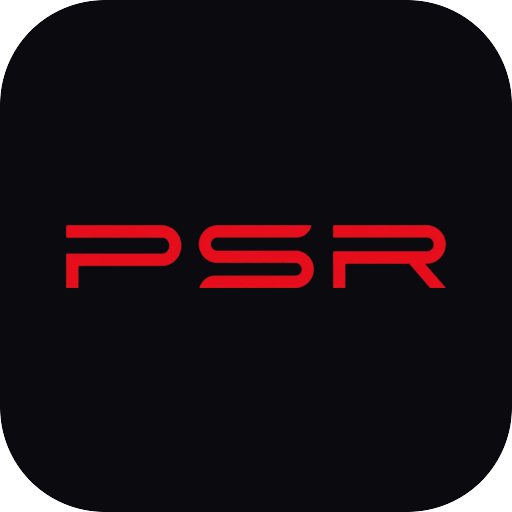
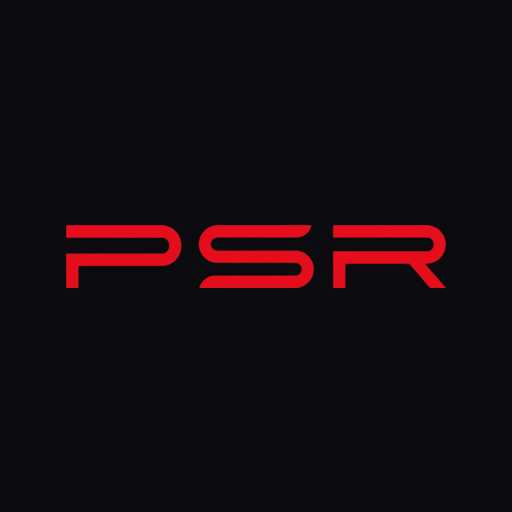
feat: restrict geo warehouse to super-admins (UI+API); mobile-friendly admin header; rich-text (markdown) AI replies; dark share/OG image (no white bg in link previews)

diff --git a/src/app/admin/page.tsx b/src/app/admin/page.tsx
@@ -15,6 +15,7 @@ type Agent = { id: string; name: string; phone?: string; email?: string | null; 
 export default function AdminPage() {
   const [state, setState] = useState<"loading" | "in" | "out" | "denied">("loading");
   const [session, setSession] = useState<Session | null>(null);
+  const [isSuper, setIsSuper] = useState(false);
 
   async function check() {
     const r = await api("/api/auth/me");
@@ -22,6 +23,7 @@ export default function AdminPage() {
     const j = await r.json();
     const role = j.session?.role;
     setSession(j.session);
+    setIsSuper(!!j.isSuper);
     setState(role === "ADMIN" || role === "COORDINATOR" ? "in" : "denied");
   }
   useEffect(() => { check(); }, []);
@@ -41,12 +43,12 @@ export default function AdminPage() {
         </div>
       </main>
     );
-  return <Console session={session!} />;
+  return <Console session={session!} isSuper={isSuper} />;
 }
 
 type AdminTab = "codes" | "geo" | "results" | "ai" | "billing" | "settings";
 
-function Console({ session }: { session: Session }) {
+function Console({ session, isSuper }: { session: Session; isSuper: boolean }) {
   const [units, setUnits] = useState<Unit[]>([]);
   const [lgas, setLgas] = useState<Lga[]>([]);
   const [agents, setAgents] = useState<Agent[]>([]);
@@ -147,7 +149,9 @@ function Console({ session }: { session: Session }) {
   }, []);
   const TABS: { key: AdminTab; label: string }[] = [
     { key: "codes", label: "Agents & Codes" },
-    { key: "geo", label: "Geography" },
+    // Geography = the shared, platform-wide INEC warehouse (uploads/harvest).
+    // Only super-admins manage it; tenant admins never see it.
+    ...(isSuper ? [{ key: "geo" as const, label: "Geography" }] : []),
     { key: "results", label: "Results" },
     { key: "ai", label: "AI & Knowledge" },
     ...(isAdmin ? [{ key: "billing" as const, label: "Billing" }, { key: "settings" as const, label: "Settings" }] : []),
@@ -159,19 +163,25 @@ function Console({ session }: { session: Session }) {
 
   return (
     <div className="min-h-dvh">
-      <header className="sticky top-0 z-10 flex items-center justify-between border-b border-line bg-surface/80 px-5 py-3.5 backdrop-blur-md">
-        <div className="flex items-center gap-3">
-          <img src="/psr-logo.png" alt="PSR" className="h-7 w-auto max-w-[110px] shrink-0 object-contain" />
-          <div className="min-w-0 border-l border-line pl-3">
+      <header className="sticky top-0 z-10 flex items-center justify-between gap-2 border-b border-line bg-surface/80 px-3 py-3 backdrop-blur-md sm:px-5 sm:py-3.5">
+        <div className="flex min-w-0 items-center gap-3">
+          <img src="/psr-logo.png" alt="PSR" className="h-7 w-auto max-w-[100px] shrink-0 object-contain" />
+          {/* Verbose title only on ≥sm; on mobile the top bar stays clean (logo + actions). */}
+          <div className="hidden min-w-0 border-l border-line pl-3 sm:block">
             <div className="truncate text-[11px] font-semibold uppercase tracking-[0.2em] text-muted">Admin · {tabTitle[tab]}</div>
             <div className="truncate text-lg font-bold tracking-tight" title={electionName}>{electionName || "Situation Room"}</div>
           </div>
         </div>
-        <div className="flex items-center gap-2">
+        <div className="flex shrink-0 items-center gap-2">
           <ThemeToggle />
-          <a href="/room" className="btn-ghost">Dashboard</a>
+          <a href="/room" className="btn-ghost px-3 py-1.5 text-sm">Dashboard</a>
         </div>
       </header>
+      {/* Compact election name on mobile, below the top bar. */}
+      <div className="border-b border-line px-4 py-2 sm:hidden">
+        <div className="text-[10px] font-semibold uppercase tracking-[0.2em] text-muted">Admin · {tabTitle[tab]}</div>
+        <div className="truncate text-base font-bold tracking-tight">{electionName || "Situation Room"}</div>
+      </div>
 
       <nav className="sticky top-[57px] z-[9] flex gap-1 overflow-x-auto border-b border-line bg-surface/85 px-3 py-2 backdrop-blur-md">
         {TABS.map((t) => (
@@ -319,7 +329,7 @@ function Console({ session }: { session: Session }) {
       </main>
       )}
 
-      {tab === "geo" && (
+      {tab === "geo" && isSuper && (
         <div className="space-y-4 p-5">
           <GeoConsole onFlash={setFlash} onOpenAgent={(id) => setOpenAgent(id)} />
           {isAdmin && <WarehouseCard onFlash={setFlash} />}

diff --git a/src/components/AiChat.tsx b/src/components/AiChat.tsx
@@ -4,6 +4,43 @@ import { api } from "@/lib/session";
 
 type Msg = { role: "user" | "assistant"; content: string };
 
+// Minimal, safe Markdown -> HTML for assistant replies (headings, bold/italic,
+// inline + fenced code, links, bullet/numbered lists). HTML is escaped first, so
+// the model can't inject markup.
+function renderMarkdown(src: string): string {
+  const esc = (s: string) => s.replace(/&/g, "&amp;").replace(/</g, "&lt;").replace(/>/g, "&gt;");
+  const inline = (s: string) =>
+    esc(s)
+      .replace(/`([^`]+)`/g, '<code class="rounded bg-white/10 px-1 py-0.5 text-[0.85em]">$1</code>')
+      .replace(/\*\*([^*]+)\*\*/g, '<strong class="font-semibold">$1</strong>')
+      .replace(/(^|[^*])\*([^*]+)\*/g, '$1<em>$2</em>')
+      .replace(/\b(https?:\/\/[^\s<]+)/g, '<a href="$1" target="_blank" rel="noreferrer" class="text-accent underline">$1</a>')
+      .replace(/\[([^\]]+)\]\((https?:\/\/[^)]+)\)/g, '<a href="$2" target="_blank" rel="noreferrer" class="text-accent underline">$1</a>');
+  const lines = src.replace(/\r/g, "").split("\n");
+  let html = "", list: "ul" | "ol" | null = null, code = false, buf: string[] = [];
+  const closeList = () => { if (list) { html += `</${list}>`; list = null; } };
+  const flushP = () => { if (buf.length) { html += `<p class="my-1">${buf.map(inline).join("<br/>")}</p>`; buf = []; } };
+  for (const raw of lines) {
+    const line = raw;
+    if (/^```/.test(line.trim())) {
+      if (!code) { flushP(); closeList(); code = true; html += '<pre class="my-1.5 overflow-x-auto rounded-lg bg-white/10 p-2 text-[0.8em]"><code>'; }
+      else { code = false; html += "</code></pre>"; }
+      continue;
+    }
+    if (code) { html += esc(line) + "\n"; continue; }
+    const h = line.match(/^(#{1,4})\s+(.*)$/);
+    if (h) { flushP(); closeList(); const n = h[1].length; html += `<div class="mt-2 mb-0.5 font-bold ${n <= 2 ? "text-[1.05em]" : ""}">${inline(h[2])}</div>`; continue; }
+    const ul = line.match(/^\s*[-*]\s+(.*)$/);
+    const ol = line.match(/^\s*\d+\.\s+(.*)$/);
+    if (ul) { flushP(); if (list !== "ul") { closeList(); html += '<ul class="my-1 list-disc pl-5 space-y-0.5">'; list = "ul"; } html += `<li>${inline(ul[1])}</li>`; continue; }
+    if (ol) { flushP(); if (list !== "ol") { closeList(); html += '<ol class="my-1 list-decimal pl-5 space-y-0.5">'; list = "ol"; } html += `<li>${inline(ol[1])}</li>`; continue; }
+    if (!line.trim()) { flushP(); closeList(); continue; }
+    buf.push(line);
+  }
+  flushP(); closeList(); if (code) html += "</code></pre>";
+  return html;
+}
+
 // Chat panel. Signed-in staff use /api/ai/ask (Act + app guide + LIVE FIELD DATA).
 // The public landing-page variant (isPublic) uses /api/public/ask which answers
 // ONLY from the Electoral Act / FAQ and has NO access to app data.
@@ -54,7 +91,9 @@ export default function AiChat({ compact, isPublic, intro, suggestions }: {
           </div>
         )}
         {msgs.map((m, i) => (
-          <div key={i} className={`max-w-[92%] whitespace-pre-wrap rounded-xl px-3 py-2 text-sm ${m.role === "user" ? "ml-auto bg-accent/15 text-ink" : "bg-panel text-ink"}`}>{m.content}</div>
+          m.role === "assistant"
+            ? <div key={i} className="max-w-[92%] rounded-xl bg-panel px-3 py-2 text-sm leading-relaxed text-ink [&_a]:break-words" dangerouslySetInnerHTML={{ __html: renderMarkdown(m.content) }} />
+            : <div key={i} className="ml-auto max-w-[92%] whitespace-pre-wrap rounded-xl bg-accent/15 px-3 py-2 text-sm text-ink">{m.content}</div>
         ))}
         {busy && <div className="max-w-[92%] rounded-xl bg-panel px-3 py-2 text-sm text-muted">Thinking…</div>}
         <div ref={endRef} />

diff --git a/src/app/api/admin/geo/harvest/route.ts b/src/app/api/admin/geo/harvest/route.ts
@@ -1,17 +1,19 @@
 import { NextRequest, NextResponse } from "next/server";
 import { getSession, requireRole, Session } from "@/lib/auth";
+import { sessionIsSuper } from "@/lib/tenant";
 import { harvestState, warehouseSummary, clearWarehouse } from "@/lib/geo-warehouse";
 import { INEC_STATES } from "@/lib/inec";
 
 export const runtime = "nodejs";
 export const maxDuration = 300;
 
-const allowed = (s: Session | null): boolean => requireRole(s, ["ADMIN"]);
+// Geography warehouse is platform-wide — super-admins only.
+const allowed = async (s: Session | null): Promise<boolean> => requireRole(s, ["ADMIN"]) && (await sessionIsSuper(s));
 
 // GET → warehouse counts + the list of harvestable states.
 export async function GET(req: NextRequest) {
   const s = await getSession(req);
-  if (!allowed(s)) return NextResponse.json({ error: "Forbidden" }, { status: 403 });
+  if (!(await allowed(s))) return NextResponse.json({ error: "Forbidden" }, { status: 403 });
   return NextResponse.json({ states: INEC_STATES, summary: await warehouseSummary() });
 }
 
@@ -19,7 +21,7 @@ export async function GET(req: NextRequest) {
 // stay within request limits; the client loops states for a full-country import.
 export async function POST(req: NextRequest) {
   const s = await getSession(req);
-  if (!allowed(s)) return NextResponse.json({ error: "Forbidden" }, { status: 403 });
+  if (!(await allowed(s))) return NextResponse.json({ error: "Forbidden" }, { status: 403 });
 
   const { state } = await req.json().catch(() => ({}));
   const target = String(state || "").toUpperCase().trim();
@@ -39,7 +41,7 @@ export async function POST(req: NextRequest) {
 // submission unit links first). For a clean national re-import.
 export async function DELETE(req: NextRequest) {
   const s = await getSession(req);
-  if (!allowed(s)) return NextResponse.json({ error: "Forbidden" }, { status: 403 });
+  if (!(await allowed(s))) return NextResponse.json({ error: "Forbidden" }, { status: 403 });
   const { confirm } = await req.json().catch(() => ({}));
   if (confirm !== "CLEAR") return NextResponse.json({ error: "Pass { confirm: 'CLEAR' } to wipe the warehouse." }, { status: 400 });
   try {

diff --git a/src/app/api/admin/geo/rebuild/route.ts b/src/app/api/admin/geo/rebuild/route.ts
@@ -1,5 +1,6 @@
 import { NextRequest, NextResponse } from "next/server";
 import { getSession, requireRole } from "@/lib/auth";
+import { sessionIsSuper } from "@/lib/tenant";
 import { savedImports, rebuildFromSaved, warehouseSummary } from "@/lib/geo-warehouse";
 
 export const runtime = "nodejs";
@@ -8,14 +9,14 @@ export const maxDuration = 300;
 // GET → list the server-side backups (states + unit counts + when saved).
 export async function GET(req: NextRequest) {
   const s = await getSession(req);
-  if (!requireRole(s, ["ADMIN"])) return NextResponse.json({ error: "Forbidden" }, { status: 403 });
+  if (!requireRole(s, ["ADMIN"]) || !(await sessionIsSuper(s))) return NextResponse.json({ error: "Forbidden" }, { status: 403 });
   return NextResponse.json({ saved: await savedImports() });
 }
 
 // POST → rebuild the whole warehouse from those backups (no file re-upload).
 export async function POST(req: NextRequest) {
   const s = await getSession(req);
-  if (!requireRole(s, ["ADMIN"])) return NextResponse.json({ error: "Forbidden" }, { status: 403 });
+  if (!requireRole(s, ["ADMIN"]) || !(await sessionIsSuper(s))) return NextResponse.json({ error: "Forbidden" }, { status: 403 });
   try {
     const result = await rebuildFromSaved();
     return NextResponse.json({ ok: true, result, summary: await warehouseSummary() });

diff --git a/src/app/api/admin/geo/import/route.ts b/src/app/api/admin/geo/import/route.ts
@@ -1,5 +1,6 @@
 import { NextRequest, NextResponse } from "next/server";
 import { getSession, requireRole } from "@/lib/auth";
+import { sessionIsSuper } from "@/lib/tenant";
 import { importUnits, warehouseSummary, RawUnit } from "@/lib/geo-warehouse";
 
 export const runtime = "nodejs";
@@ -10,7 +11,7 @@ export const maxDuration = 300;
 // lga/ward/delim. ADMIN-gated. Used because the server itself can't reach INEC.
 export async function POST(req: NextRequest) {
   const s = await getSession(req);
-  if (!requireRole(s, ["ADMIN"])) return NextResponse.json({ error: "Forbidden" }, { status: 403 });
+  if (!requireRole(s, ["ADMIN"]) || !(await sessionIsSuper(s))) return NextResponse.json({ error: "Forbidden" }, { status: 403 });
 
   let body: { state?: string; units?: RawUnit[]; replace?: boolean; structure?: { lga: string; wards?: string[] }[] };
   try { body = await req.json(); } catch { return NextResponse.json({ error: "Invalid JSON body" }, { status: 400 }); }

diff --git a/src/app/api/admin/geo/constituencies/route.ts b/src/app/api/admin/geo/constituencies/route.ts
@@ -1,5 +1,6 @@
 import { NextRequest, NextResponse } from "next/server";
 import { getSession, requireRole } from "@/lib/auth";
+import { sessionIsSuper } from "@/lib/tenant";
 import { importConstituencies, listConstituencies, constituencySummary, ConstituencyRow, CType } from "@/lib/constituencies";
 
 export const runtime = "nodejs";
@@ -23,7 +24,7 @@ export async function GET(req: NextRequest) {
 
 export async function POST(req: NextRequest) {
   const s = await getSession(req);
-  if (!requireRole(s, ["ADMIN"])) return NextResponse.json({ error: "Forbidden" }, { status: 403 });
+  if (!requireRole(s, ["ADMIN"]) || !(await sessionIsSuper(s))) return NextResponse.json({ error: "Forbidden" }, { status: 403 });
 
   let body: { state?: string; type?: string; rows?: ConstituencyRow[]; replace?: boolean };
   try { body = await req.json(); } catch { return NextResponse.json({ error: "Invalid JSON body" }, { status: 400 }); }

diff --git a/src/app/api/admin/geo/route.ts b/src/app/api/admin/geo/route.ts
@@ -1,6 +1,7 @@
 import { NextRequest, NextResponse } from "next/server";
 import { db } from "@/lib/db";
 import { getSession, requireRole } from "@/lib/auth";
+import { sessionIsSuper } from "@/lib/tenant";
 
 export const runtime = "nodejs";
 
@@ -126,7 +127,7 @@ export async function GET(req: NextRequest) {
 // be harvested). Upserts the hierarchy; whatever level's name is provided is created.
 export async function POST(req: NextRequest) {
   const s = await getSession(req);
-  if (!requireRole(s, ["ADMIN"])) return NextResponse.json({ error: "Forbidden" }, { status: 403 });
+  if (!requireRole(s, ["ADMIN"]) || !(await sessionIsSuper(s))) return NextResponse.json({ error: "Forbidden" }, { status: 403 });
   const b = await req.json().catch(() => ({}));
   const stateName = String(b.state || "").toUpperCase().trim();
   const lgaName = String(b.lga || "").trim();

diff --git a/src/app/api/admin/geo/validate/route.ts b/src/app/api/admin/geo/validate/route.ts
@@ -1,5 +1,6 @@
 import { NextRequest, NextResponse } from "next/server";
 import { getSession, requireRole } from "@/lib/auth";
+import { sessionIsSuper } from "@/lib/tenant";
 import { validateWarehouse } from "@/lib/geo-validate";
 
 export const runtime = "nodejs";
@@ -8,6 +9,6 @@ export const runtime = "nodejs";
 // with the list of short states and empty (unit-less) wards to re-harvest.
 export async function GET(req: NextRequest) {
   const s = await getSession(req);
-  if (!requireRole(s, ["ADMIN"])) return NextResponse.json({ error: "Forbidden" }, { status: 403 });
+  if (!requireRole(s, ["ADMIN"]) || !(await sessionIsSuper(s))) return NextResponse.json({ error: "Forbidden" }, { status: 403 });
   return NextResponse.json(await validateWarehouse());
 }

diff --git a/src/lib/tenant.ts b/src/lib/tenant.ts
@@ -12,6 +12,15 @@ export function isSuperAdmin(email?: string | null): boolean {
   return !!email && SUPER_ADMINS.includes(email.toLowerCase());
 }
 
+// Resolve whether a session belongs to a platform super-admin. The JWT carries
+// the user id (sub) but not the email, so we look the email up. Super-admins own
+// the shared geography warehouse; tenant admins do not.
+export async function sessionIsSuper(s: { sub?: string; kind?: string } | null): Promise<boolean> {
+  if (!s || s.kind !== "user" || !s.sub) return false;
+  const u = await db.user.findUnique({ where: { id: s.sub }, select: { email: true } });
+  return isSuperAdmin(u?.email);
+}
+
 export function slugify(input: string): string {
   return (input || "")
     .toLowerCase()

diff --git a/src/app/layout.tsx b/src/app/layout.tsx
@@ -22,6 +22,9 @@ export async function generateMetadata(): Promise<Metadata> {
       ],
       apple: [{ url: "/icon-180.png", sizes: "180x180" }],
     },
+    // Dark share card so WhatsApp/social previews don't show a white background.
+    openGraph: { title: b.name, description: b.tagline, type: "website", images: [{ url: "/og.png", width: 1200, height: 630, alt: b.name }] },
+    twitter: { card: "summary_large_image", title: b.name, description: b.tagline, images: ["/og.png"] },
   };
 }
 

diff --git a/src/app/api/auth/me/route.ts b/src/app/api/auth/me/route.ts
@@ -1,10 +1,11 @@
 import { NextRequest, NextResponse } from "next/server";
 import { getSession } from "@/lib/auth";
+import { sessionIsSuper } from "@/lib/tenant";
 
 export const runtime = "nodejs";
 
 export async function GET(req: NextRequest) {
   const s = await getSession(req);
   if (!s) return NextResponse.json({ session: null }, { status: 401 });
-  return NextResponse.json({ session: s });
+  return NextResponse.json({ session: s, isSuper: await sessionIsSuper(s) });
 }
